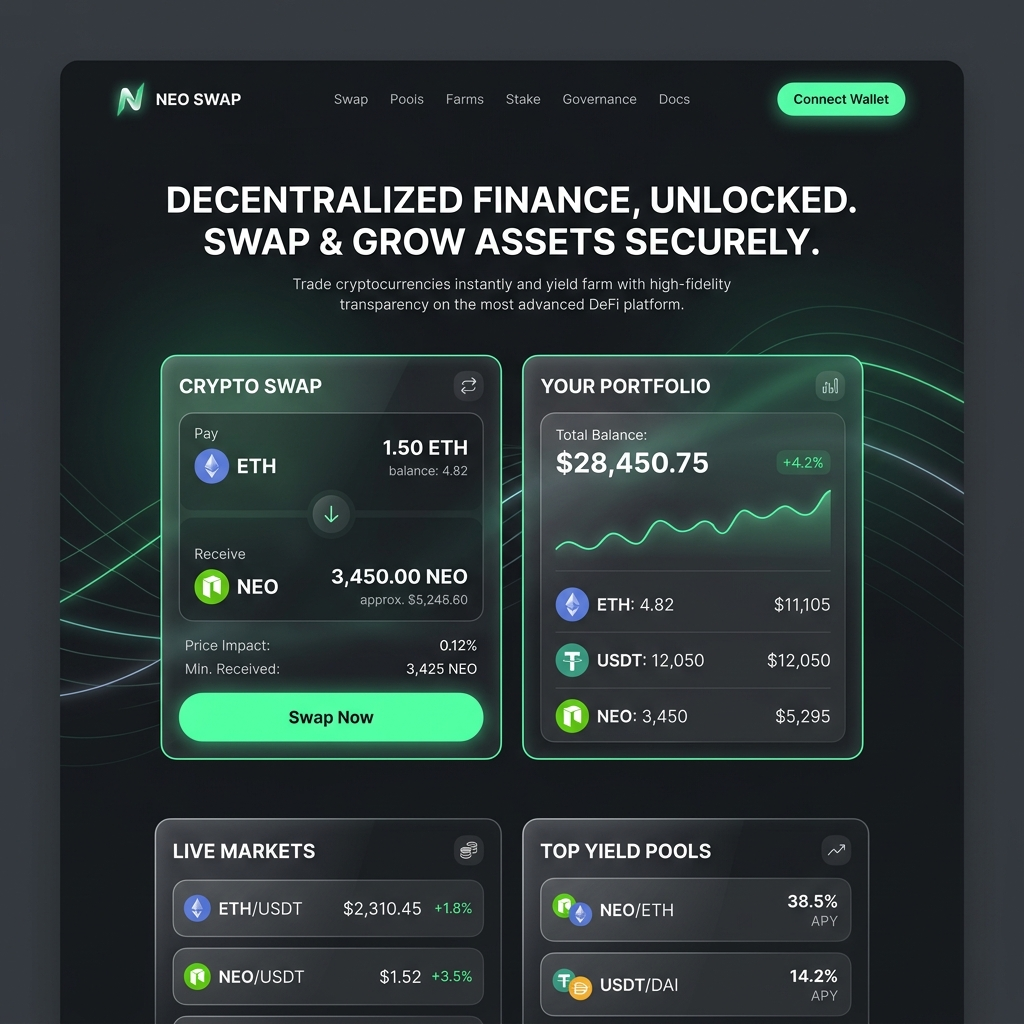
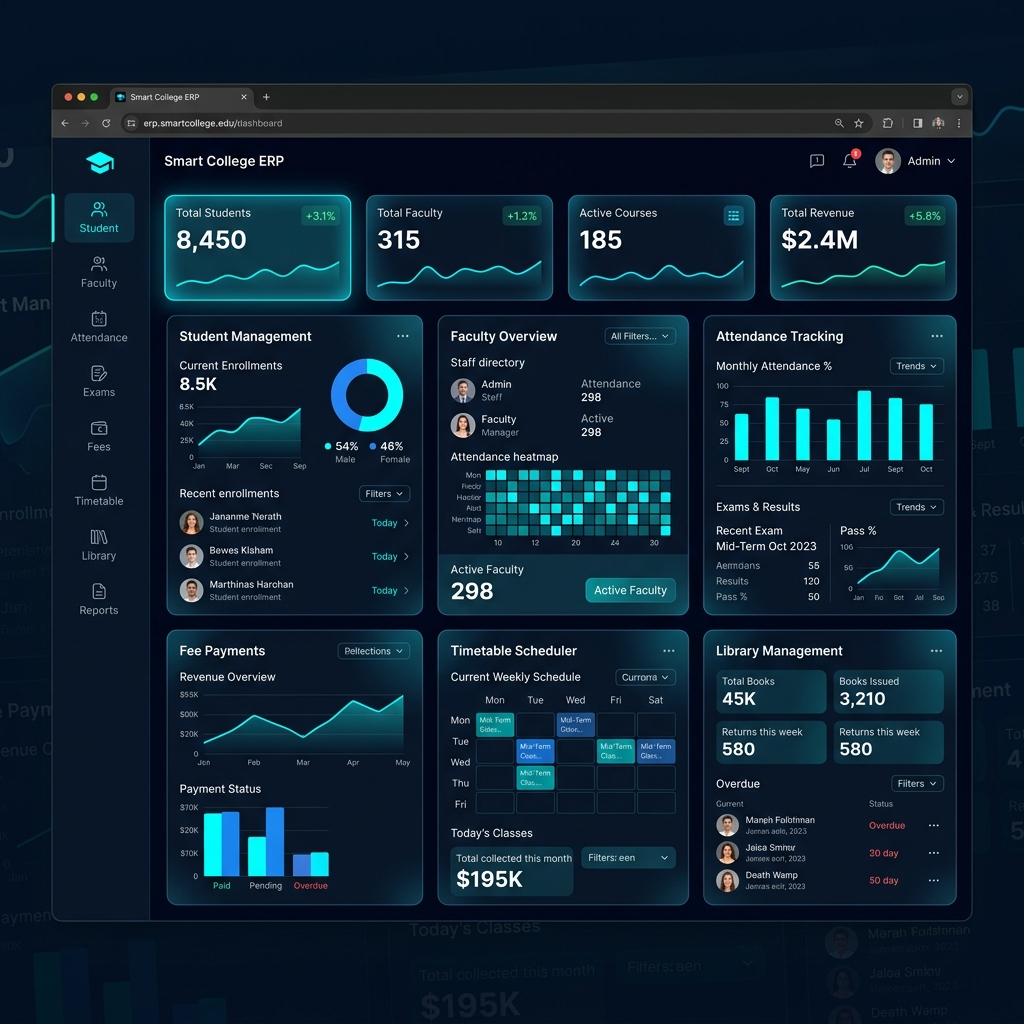
Add Smart College ERP project with AI-generated image

diff --git a/index.html b/index.html
@@ -219,6 +219,7 @@
                     <button class="filter-btn active" data-filter="all">All Projects</button>
                     <button class="filter-btn" data-filter="web">Web Apps</button>
                     <button class="filter-btn" data-filter="ai">AI / ML</button>
+                    <button class="filter-btn" data-filter="erp">ERP System</button>
                 </div>
 
                 <!-- Projects Grid -->
@@ -265,7 +266,28 @@
                             </div>
                         </div>
                     </div>
-                </div>
+
+                    <!-- Project 3 - Smart College ERP -->
+                    <div class="project-card scroll-reveal fade-up" data-category="erp" data-project-id="3">
+                        <div class="project-img-wrapper">
+                            <img src="assets/project3.png" alt="Smart College ERP System" class="project-img">
+                            <div class="project-overlay">
+                                <span class="view-details-btn">View Case Study <i class="fa-solid fa-arrow-right"></i></span>
+                            </div>
+                        </div>
+                        <div class="project-info">
+                            <span class="project-category">ERP System · Full Stack</span>
+                            <h3 class="project-title">Smart College ERP</h3>
+                            <p class="project-summary">A comprehensive College ERP system managing students, faculty, attendance, exams, timetables, fees, and library — all in one unified platform.</p>
+                            <div class="project-tech">
+                                <span>MongoDB</span>
+                                <span>Express.js</span>
+                                <span>React.js</span>
+                                <span>Node.js</span>
+                                <span>JWT</span>
+                            </div>
+                        </div>
+                    </div>
             </div>
         </section>
 

diff --git a/script.js b/script.js
@@ -286,6 +286,16 @@ document.addEventListener('DOMContentLoaded', () => {
             tech: ["Raspberry Pi", "Python", "OpenCV", "Machine Learning", "GPIO"],
             live: "#",
             code: "https://github.com/Sandeep405812"
+        },
+        3: {
+            title: "Smart College ERP",
+            category: "ERP System · Full Stack Web App",
+            image: "assets/project3.png",
+            summary: "A comprehensive College ERP system managing students, faculty, attendance, exams, timetables, fees, and library — all in one unified platform.",
+            description: "Smart College ERP is a full-featured Enterprise Resource Planning system built for educational institutions. It includes modules for student enrollment & management, faculty assignments, daily attendance tracking with analytics, exam scheduling & result management, automated fee collection with payment gateway integration, timetable generation, and library management. Built with role-based access control for Admin, Faculty, and Student roles with JWT-secured APIs and a fully responsive React.js frontend with dynamic dashboards.",
+            tech: ["MongoDB", "Express.js", "React.js", "Node.js", "JWT", "REST API"],
+            live: "#",
+            code: "https://github.com/Sandeep405812"
         }
     };
 
